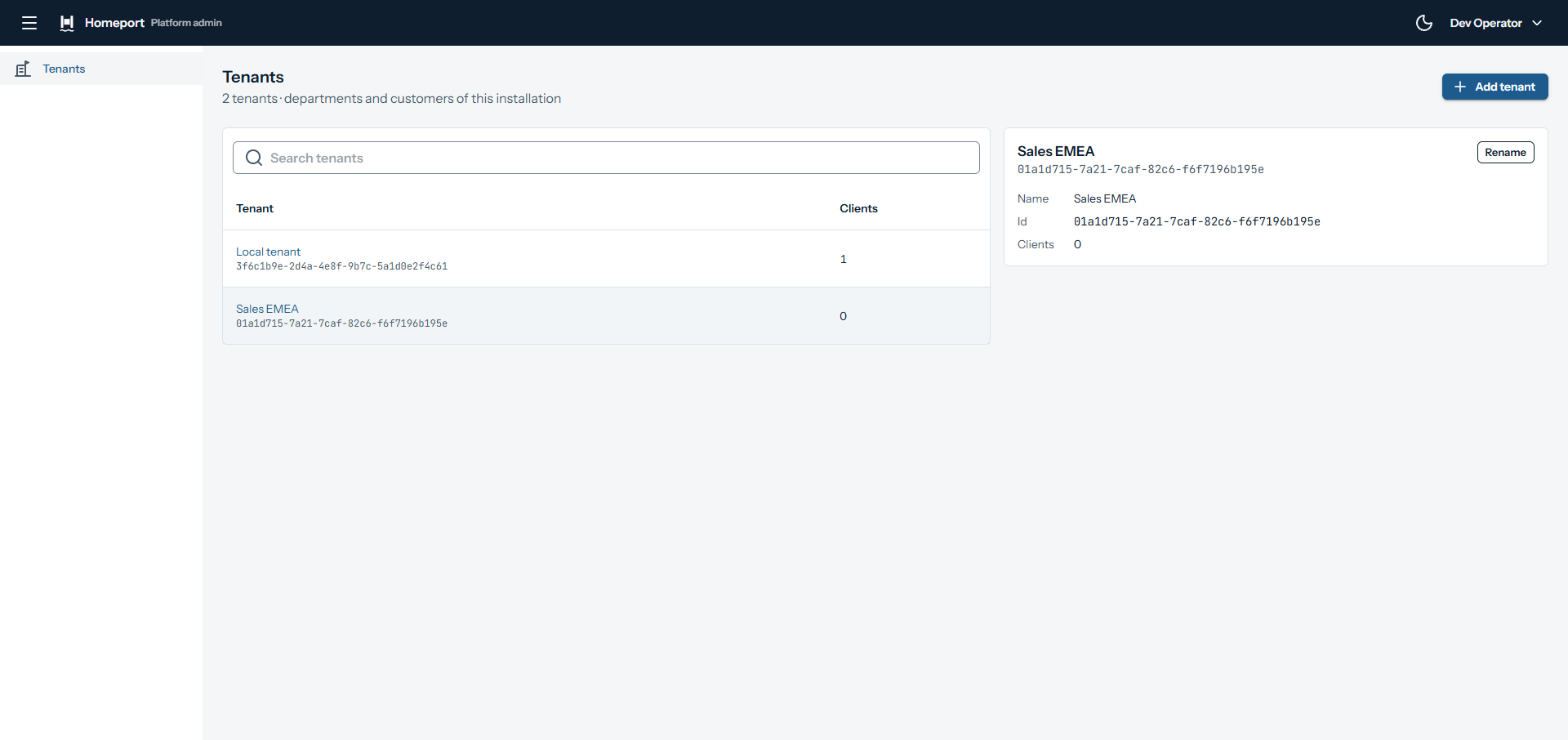
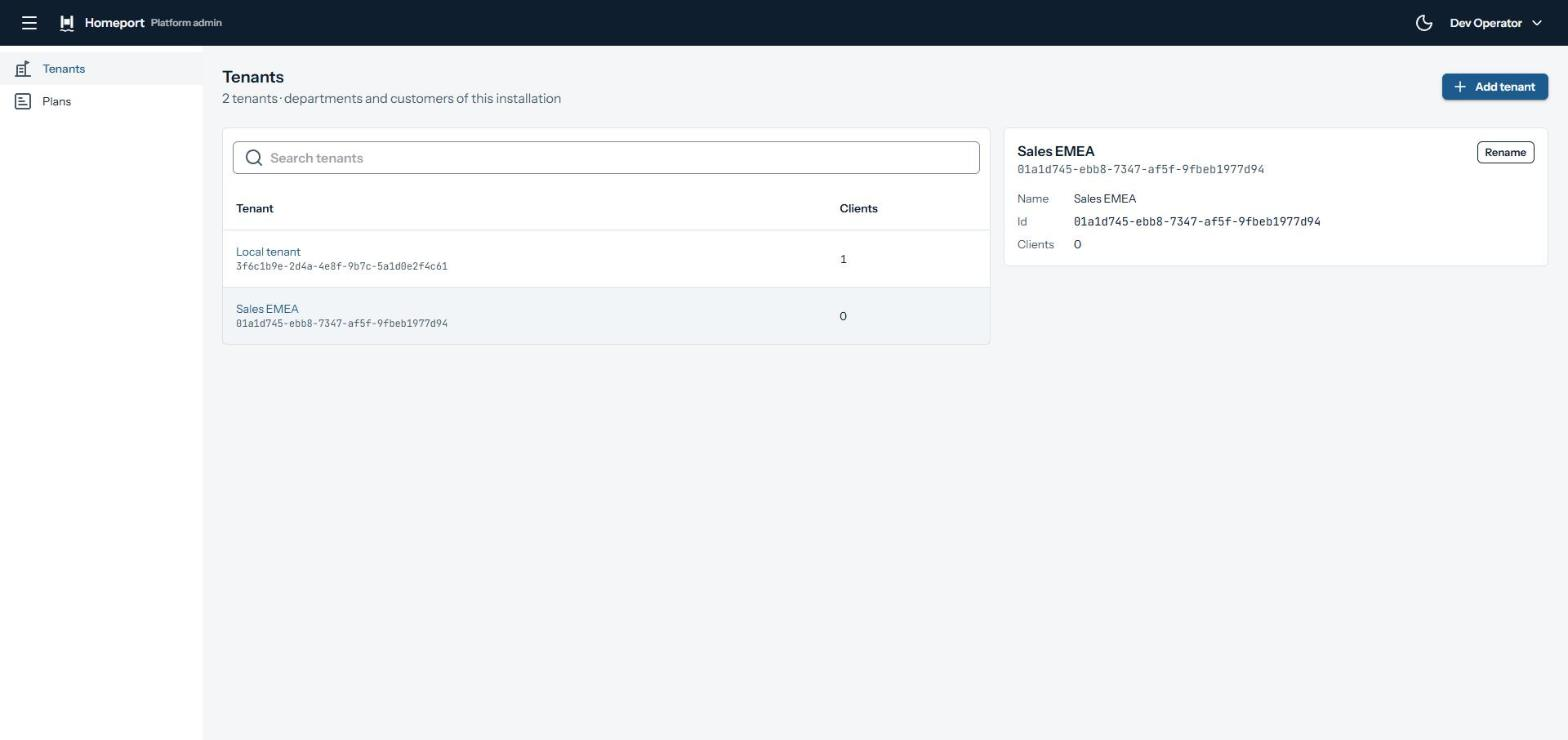
docs: document plans in the admin API and portal (#195)
- Document the plan endpoints and audit actions
- Add the plan-in-use problem page
- Add the Plans section with screenshots
- Retake the shell and tenant screenshots
- Update architecture, throttling and validation pages
- Add the changelog entry

diff --git a/docs/architecture/architecture.md b/docs/architecture/architecture.md
@@ -23,20 +23,20 @@ binding rules — the dependency direction, who may reference what — live in t
 | `Homeport.Platform.Gateway.Domain` | The rules for a quantity a module reports: one pair of the route's own meter and a positive integer; a plan's rate limit and what a request's draw from its bucket tells the caller: allowed or when to retry, the quota, window, remaining requests and seconds until full; the consolidated API documents: per module only the routes the gateway serves, each from the document of the instance that wins it, under public paths, with prefixed colliding component names and a bearer scheme | `Homeport.Shared.Contracts` |
 | `Homeport.Platform.Gateway.Application` | Decides whether a tenant's request passes its rate limit, on the token buckets it declares, and lets it pass while they cannot be reached | `Homeport.Platform.Gateway.Domain` |
 | `Homeport.Platform.Gateway.Infrastructure` | Loads and checks the signing key, builds the JWKS and issues service tokens, which an HTTP client attaches to its calls to a platform service, and module tokens, which are also the caller tokens of a forwarded platform request, and the operator's caller tokens of scope `admin` for an admin request; reads the route table from the registry; looks clients up at the control plane and keeps each answer for a configurable time; publishes usage events through Wolverine to RabbitMQ, retries a failed send and counts one it drops or a reported quantity it rejects; reads the OpenAPI documents of module instances; keeps every tenant's token bucket in Valkey and draws from it with a script that runs inside Valkey, counts a request that passes while Valkey cannot be reached and warns about it at most once a minute | `Homeport.Platform.Gateway.Application`, `Homeport.Shared.Authentication`, `Homeport.Shared.Internal` |
-| `Homeport.Platform.Gateway.Api` | The one entry point: polls the registry for the routes and forwards `/modules/{id}/{path}` with YARP on them, and `/platform/v1/usage` to metering on a configured route with a caller token and without metering it, to clients with a valid token of the operator's identity provider that the control plane knows and that grants the route's scope, serves the admin API under `/platform/v1/admin/...` on a port of its own only, for operator tokens with the configured admin claim, forwards it — so far the tenants, to the control plane — with a caller token of scope `admin` and neither throttles nor meters it, replaces the client's token with a module token, strips `X-Homeport-*` headers, applies forwarded headers only from trusted proxies, propagates `traceparent`, rejects a request over its tenant's rate limit with `429` and `Retry-After` before it is forwarded or metered and sets the RateLimit headers on every module response, tags a module request's span with tenant, client, module and meter and counts it in `homeport.gateway.requests`, publishes a usage event for every request it forwards with the quantity the module reported in `X-Homeport-Usage`, which it removes from the response, or the route's, holds every error response to Problem Details and serves the JWKS at `/.well-known/jwks.json`; when `Gateway:Docs:Enabled`, rebuilds the consolidated API docs whenever the routes change, the platform's from the documents of the platform services, read with a service token every 30 seconds, and serves them with Scalar at `/platform/docs` | `Homeport.Platform.Gateway.Infrastructure`, `Homeport.Shared.Client`, `Homeport.Shared.ServiceDefaults` |
+| `Homeport.Platform.Gateway.Api` | The one entry point: polls the registry for the routes and forwards `/modules/{id}/{path}` with YARP on them, and `/platform/v1/usage` to metering on a configured route with a caller token and without metering it, to clients with a valid token of the operator's identity provider that the control plane knows and that grants the route's scope, serves the admin API under `/platform/v1/admin/...` on a port of its own only, for operator tokens with the configured admin claim, forwards it — so far the tenants and plans, to the control plane — with a caller token of scope `admin` and neither throttles nor meters it, replaces the client's token with a module token, strips `X-Homeport-*` headers, applies forwarded headers only from trusted proxies, propagates `traceparent`, rejects a request over its tenant's rate limit with `429` and `Retry-After` before it is forwarded or metered and sets the RateLimit headers on every module response, tags a module request's span with tenant, client, module and meter and counts it in `homeport.gateway.requests`, publishes a usage event for every request it forwards with the quantity the module reported in `X-Homeport-Usage`, which it removes from the response, or the route's, holds every error response to Problem Details and serves the JWKS at `/.well-known/jwks.json`; when `Gateway:Docs:Enabled`, rebuilds the consolidated API docs whenever the routes change, the platform's from the documents of the platform services, read with a service token every 30 seconds, and serves them with Scalar at `/platform/docs` | `Homeport.Platform.Gateway.Infrastructure`, `Homeport.Shared.Client`, `Homeport.Shared.ServiceDefaults` |
 | `Homeport.Platform.Registry.Domain` | The rules of registration: the manifest against the module contract, the supported contract versions, SemVer precedence, merging the routes of the live instances and comparing registration keys | nothing |
 | `Homeport.Platform.Registry.Application` | Registering an instance, renewing it and building the routes, on a store of instances and a source of keys it declares | `Homeport.Platform.Registry.Domain` |
 | `Homeport.Platform.Registry.Infrastructure` | Keeps the instances in Valkey with a time to live and reads the registration keys from configuration | `Homeport.Platform.Registry.Application` |
 | `Homeport.Platform.Registry.Api` | Serves registration and heartbeat, authenticated by registration key, and the route table, authenticated by a gateway service token | `Homeport.Platform.Registry.Infrastructure`, `Homeport.Shared.Authentication`, `Homeport.Shared.Client`, `Homeport.Shared.Internal`, `Homeport.Shared.ServiceDefaults` |
-| `Homeport.Platform.ControlPlane.Domain` | The tenant with the rules of its name — required, at most 200 characters, unique among tenants compared case-sensitively — the plan, the client with the plan it is held to, the longest name and client id each allows, and the audit entry of an operator's change | `Homeport.Shared.Contracts` |
-| `Homeport.Platform.ControlPlane.Application` | Looking a client up with its plan, and listing, creating and renaming tenants on behalf of an operator, each change with its audit entry, on a lookup and a store it declares | `Homeport.Platform.ControlPlane.Domain` |
-| `Homeport.Platform.ControlPlane.Infrastructure` | Keeps tenants, plans, clients and audit entries in the schema `control_plane` with EF Core, mapped by entity configurations, looks a client up with its plan, stores a tenant's change and its audit entry in one transaction and catches a name taken meanwhile by the unique index, holds the migrations, takes `UPDATE` and `DELETE` on the audit table back from the app role, and brings the seeded tenant, plan and client in line with the configuration | `Homeport.Platform.ControlPlane.Application` |
-| `Homeport.Platform.ControlPlane.Api` | Serves `GET /clients/{clientId}` authenticated by a gateway service token, and `GET`, `POST` and `PUT` under `/v1/admin/tenants` for the operator's caller token of scope `admin` without a tenant, answering a broken name rule with a validation problem at `name`, and as `migrate` applies its migrations and seeds one tenant, plan and client | `Homeport.Platform.ControlPlane.Infrastructure`, `Homeport.Shared.Authentication`, `Homeport.Shared.Client`, `Homeport.Shared.Internal`, `Homeport.Shared.ServiceDefaults` |
+| `Homeport.Platform.ControlPlane.Domain` | The tenant with the rules of its name — required, at most 200 characters, unique among tenants compared case-sensitively — the plan with the rules of its name, alike, and of its limits — requests per second and burst, both positive — and that it is deleted only while no client uses it, the client with the plan it is held to, the longest name and client id each allows, and the audit entry of an operator's change | `Homeport.Shared.Contracts` |
+| `Homeport.Platform.ControlPlane.Application` | Looking a client up with its plan, listing, creating and renaming tenants, and listing, creating, changing and deleting plans on behalf of an operator, each change with its audit entry, on a lookup and a store it declares | `Homeport.Platform.ControlPlane.Domain` |
+| `Homeport.Platform.ControlPlane.Infrastructure` | Keeps tenants, plans, clients and audit entries in the schema `control_plane` with EF Core, mapped by entity configurations, looks a client up with its plan, stores a tenant's or a plan's change and its audit entry in one transaction and catches a name taken meanwhile by the unique index and a plan a client started using meanwhile by the foreign key, holds the migrations, takes `UPDATE` and `DELETE` on the audit table back from the app role, and brings the seeded tenant, plan and client in line with the configuration | `Homeport.Platform.ControlPlane.Application` |
+| `Homeport.Platform.ControlPlane.Api` | Serves `GET /clients/{clientId}` authenticated by a gateway service token, `GET`, `POST` and `PUT` under `/v1/admin/tenants` and `GET`, `POST`, `PUT` and `DELETE` under `/v1/admin/plans` for the operator's caller token of scope `admin` without a tenant, answering a broken rule with a validation problem at its field and deleting a plan in use with `plan-in-use`, and as `migrate` applies its migrations and seeds one tenant, plan and client | `Homeport.Platform.ControlPlane.Infrastructure`, `Homeport.Shared.Authentication`, `Homeport.Shared.Client`, `Homeport.Shared.Internal`, `Homeport.Shared.ServiceDefaults` |
 | `Homeport.Platform.Metering.Domain` | The usage event, its hourly and daily aggregates, the rule that buckets usage by the UTC hour and day, and the query of an export with its rules | `Homeport.Shared.Contracts` |
 | `Homeport.Platform.Metering.Application` | Recording an event once and adding it to its aggregates, and reading a tenant's aggregates for an export, on a store and a reader it declares | `Homeport.Platform.Metering.Domain` |
 | `Homeport.Platform.Metering.Infrastructure` | Keeps the events and aggregates in the schema `metering` with EF Core, filtered to one tenant by query filters and row-level security, records an event in one transaction that a duplicate leaves unchanged, reads the aggregates of one tenant, and holds the migrations | `Homeport.Platform.Metering.Application` |
 | `Homeport.Platform.Metering.Api` | Consumes `UsageRecorded` from RabbitMQ through Wolverine, acknowledging it only once recorded, counts consumed events in `homeport.metering.events`, tags the consumer's span with the event's tenant, client, module and meter, serves a tenant's usage at `GET /v1/usage` as JSON or CSV to caller tokens of the gateway that grant `usage.read`, its OpenAPI document to the gateway's tokens, and as `migrate` applies its migrations | `Homeport.Platform.Metering.Infrastructure`, `Homeport.Shared.Authentication`, `Homeport.Shared.Client`, `Homeport.Shared.Internal`, `Homeport.Shared.ServiceDefaults` |
-| `Homeport.Platform.Portal` | The admin portal, Blazor Server on MudBlazor with the design kit's theme, fonts and logos linked from `design/`: signs the operator in with OIDC, authorization code and PKCE, requires the configured claim on every page, refuses a sign-in over plain HTTP, applies forwarded headers only from trusted proxies, shows the shell with the operator's name and sign-out, lists, creates and renames tenants through the gateway's admin API with the operator's access token, which each circuit renews with the refresh token before it expires, shows the admin API's Problem Details with the errors at their form fields, and answers a browser with sign-in, access denied, not found and error pages that show the trace id | `Homeport.Shared.Client`, `Homeport.Shared.ServiceDefaults` |
+| `Homeport.Platform.Portal` | The admin portal, Blazor Server on MudBlazor with the design kit's theme, fonts and logos linked from `design/`: signs the operator in with OIDC, authorization code and PKCE, requires the configured claim on every page, refuses a sign-in over plain HTTP, applies forwarded headers only from trusted proxies, shows the shell with the operator's name and sign-out, lists, creates and renames tenants and lists, creates, changes and deletes plans through the gateway's admin API with the operator's access token, which each circuit renews with the refresh token before it expires, shows the admin API's Problem Details with the errors at their form fields, and answers a browser with sign-in, access denied, not found and error pages that show the trace id | `Homeport.Shared.Client`, `Homeport.Shared.ServiceDefaults` |
 | `Homeport.Modules.Echo.Domain` | The rule how much a batch counts: one per item, and at least one item | `Homeport.Shared.Contracts` |
 | `Homeport.Modules.Echo.Application` | Returning a batch with the quantity it counts as | `Homeport.Modules.Echo.Domain` |
 | `Homeport.Modules.Echo.Infrastructure` | Empty: Echo reaches nothing outside its process | `Homeport.Modules.Echo.Application` |
@@ -46,10 +46,10 @@ binding rules — the dependency direction, who may reference what — live in t
 | `Homeport.Modules.Echo.Api.Tests.Integration` | Runs Echo in memory behind a stand-in gateway's JWKS and asserts its manifest, health, echo, batch, request and caller endpoints with and without a module token and scope, and its OpenAPI document, including the descriptions of its `Homeport.Shared.Client` types | `Homeport.Modules.Echo.Api` |
 | `Homeport.Modules.Echo.Domain.Tests.Unit` | Asserts how much a batch counts and that an empty one is rejected | `Homeport.Modules.Echo.Domain` |
 | `Homeport.Modules.Echo.Application.Tests.Unit` | Asserts that a batch comes back in its order with its quantity, and that an empty one fails | `Homeport.Modules.Echo.Application` |
-| `Homeport.Platform.ControlPlane.Infrastructure.Tests.Integration` | Asserts that the schema's ER diagram names every table and column of the model, and, against a throwaway PostgreSQL migrated as the owner role, that a tenant is stored together with its audit entry, that neither is stored when another tenant took the name meanwhile, and that two names differing only in case are both stored; needs Docker | `Homeport.Platform.ControlPlane.Infrastructure` |
-| `Homeport.Platform.ControlPlane.Api.Tests.Integration` | Runs `migrate` and the control plane against a throwaway PostgreSQL prepared by the init script and asserts the client lookup with its token and error responses, the tenants of the admin API with their status codes, problems and audit entries, that only the operator's caller token reaches them, that `migrate` seeds exactly once and fails on an invalid seed, that the app role has no DDL rights, and that it may add and read audit entries but neither change nor delete them; needs Docker | `Homeport.Platform.ControlPlane.Api` |
-| `Homeport.Platform.ControlPlane.Domain.Tests.Unit` | Asserts the rules of a tenant's name: required, at most 200 characters, unique among tenants but case-sensitive, without surrounding whitespace, on creating and on renaming | `Homeport.Platform.ControlPlane.Domain` |
-| `Homeport.Platform.Gateway.Api.Tests.Integration` | Runs the gateway in memory against a stand-in module, registry, identity provider, control plane and metering and asserts which tokens, clients and scopes it accepts, the module token it forwards, what it forwards on which routes, how it polls the registry, the error responses it answers with, the JWKS it serves, the span attributes and request counts of a module request, that its metrics carry only bounded labels, the usage events it publishes with the quantity a module reports or the route's, the reports it rejects and removes, the `429`, `Retry-After` and RateLimit headers it answers with, that it neither meters a rejected request nor throttles one while Valkey is unreachable, that its errors read as `ProblemResponse` without loss, the consolidated API docs it serves, keeps and switches off, the platform's from metering's document read with a service token, that it forwards the usage export to metering with a caller token, throttles it and does not meter it, that it serves the admin API on the admin port only, answers it on the public port like an unknown path, refuses a token without the admin claim, forwards the operator's caller token and the tenant endpoints to the control plane, and that it does not start without a signing key or an identity provider | `Homeport.Platform.Gateway.Api` |
+| `Homeport.Platform.ControlPlane.Infrastructure.Tests.Integration` | Asserts that the schema's ER diagram names every table and column of the model, and, against a throwaway PostgreSQL migrated as the owner role, that a tenant is stored together with its audit entry, that neither is stored when another tenant took the name meanwhile, and that two names differing only in case are both stored, and alike for a plan, and that a plan a client uses is neither deleted nor its audit entry stored; needs Docker | `Homeport.Platform.ControlPlane.Infrastructure` |
+| `Homeport.Platform.ControlPlane.Api.Tests.Integration` | Runs `migrate` and the control plane against a throwaway PostgreSQL prepared by the init script and asserts the client lookup with its token and error responses, the tenants and plans of the admin API with their status codes, problems and audit entries, that only the operator's caller token reaches them, that `migrate` seeds exactly once and fails on an invalid seed, that the app role has no DDL rights, and that it may add and read audit entries but neither change nor delete them; needs Docker | `Homeport.Platform.ControlPlane.Api` |
+| `Homeport.Platform.ControlPlane.Domain.Tests.Unit` | Asserts the rules of a tenant's name: required, at most 200 characters, unique among tenants but case-sensitive, without surrounding whitespace, on creating and on renaming; the same of a plan's name, that its rate and burst are positive, and that a plan in use is not deleted | `Homeport.Platform.ControlPlane.Domain` |
+| `Homeport.Platform.Gateway.Api.Tests.Integration` | Runs the gateway in memory against a stand-in module, registry, identity provider, control plane and metering and asserts which tokens, clients and scopes it accepts, the module token it forwards, what it forwards on which routes, how it polls the registry, the error responses it answers with, the JWKS it serves, the span attributes and request counts of a module request, that its metrics carry only bounded labels, the usage events it publishes with the quantity a module reports or the route's, the reports it rejects and removes, the `429`, `Retry-After` and RateLimit headers it answers with, that it neither meters a rejected request nor throttles one while Valkey is unreachable, that its errors read as `ProblemResponse` without loss, the consolidated API docs it serves, keeps and switches off, the platform's from metering's document read with a service token, that it forwards the usage export to metering with a caller token, throttles it and does not meter it, that it serves the admin API on the admin port only, answers it on the public port like an unknown path, refuses a token without the admin claim, forwards the operator's caller token and the tenant and plan endpoints to the control plane, and that it does not start without a signing key or an identity provider | `Homeport.Platform.Gateway.Api` |
 | `Homeport.Platform.Gateway.Application.Tests.Unit` | Asserts that a request is decided on the bucket it drew from, and passes undecided while the buckets are unavailable | `Homeport.Platform.Gateway.Application` |
 | `Homeport.Platform.Gateway.Domain.Tests.Unit` | Asserts which reported quantities are accepted and why one is rejected, the limits a plan's rate limit takes and what a draw from its bucket tells the caller, and what a consolidated API document keeps, rewrites and leaves out | `Homeport.Platform.Gateway.Domain` |
 | `Homeport.Platform.Gateway.Infrastructure.Tests.Unit` | Asserts the checks on the signing and module token configuration, the service tokens and their renewal, the module tokens and the operator's caller tokens, the cached client lookup at the control plane, the retry delays of usage events, and that an outage of Valkey is warned about at most once per interval | `Homeport.Platform.Gateway.Infrastructure` |
@@ -59,7 +59,7 @@ binding rules — the dependency direction, who may reference what — live in t
 | `Homeport.Platform.Metering.Infrastructure.Tests.Integration` | Asserts recording and duplicates in a throwaway PostgreSQL prepared by the init script, which buckets an export reads, the cross-tenant leakage tests through EF Core and raw SQL as the app role and of the export, and that the schema's ER diagram names every table and column of the model; needs Docker | `Homeport.Platform.Metering.Infrastructure` |
 | `Homeport.Platform.Metering.Api.Tests.Integration` | Runs `migrate` and metering against a throwaway PostgreSQL and RabbitMQ and asserts that a published event is aggregated, that one delivered twice counts once, what `homeport.metering.events` counts, the attributes of the consumer's span, that its metrics carry only bounded labels, and the usage export as JSON and CSV with the tokens it accepts and refuses and the cross-tenant leakage test of two tenants, and its OpenAPI document of the export, served to a token only; needs Docker | `Homeport.Platform.Metering.Api` |
 | `Homeport.Platform.Portal.Tests.Integration` | Runs the portal in memory against an identity provider it never calls and asserts that it serves the design kit's files, sends an anonymous request to the sign-in page and its button to the provider with a code challenge, refuses a sign-in over plain HTTP without a trusted proxy, returns only to its own pages, sends a user without the claim to the access denied page, shows the trace id there and on the not found page, sets its cookies `Secure`, `HttpOnly` and `Lax`, and shows the operator's name in the shell | `Homeport.Platform.Portal` |
-| `Homeport.Platform.Portal.Tests.Unit` | Renders the tenants page with bUnit against a stand-in admin API and asserts the list, the empty state, a validation problem at the name field and the title, detail and trace id of any other problem; asserts that the client of the admin API sends the operator's token below `/platform`, reads Problem Details, describes an unreachable API and asks for a new sign-in on `401` or without a token, and that the operator's tokens are read from the cookie once per circuit and renewed with the refresh token shortly before they expire | `Homeport.Platform.Portal` |
+| `Homeport.Platform.Portal.Tests.Unit` | Renders the tenants and plans pages with bUnit against a stand-in admin API and asserts the list, the empty state, a validation problem at its field, the title, detail and trace id of any other problem, and the `plan-in-use` problem after a delete; asserts that the client of the admin API sends the operator's token below `/platform`, deletes a plan without a response body, reads Problem Details, describes an unreachable API and asks for a new sign-in on `401` or without a token, and that the operator's tokens are read from the cookie once per circuit and renewed with the refresh token shortly before they expire | `Homeport.Platform.Portal` |
 | `Homeport.Platform.Registry.Domain.Tests.Unit` | Asserts the manifest rules, SemVer precedence, how the routes of several instances merge and the key comparison | `Homeport.Platform.Registry.Domain` |
 | `Homeport.Platform.Registry.Application.Tests.Unit` | Asserts registering, renewing and building the routes on an in-memory store | `Homeport.Platform.Registry.Application` |
 | `Homeport.Platform.Registry.Infrastructure.Tests.Unit` | Asserts the checks on the configured registration keys | `Homeport.Platform.Registry.Infrastructure` |

diff --git a/docs/operators/admin-api.md b/docs/operators/admin-api.md
@@ -63,6 +63,11 @@ The request and response types are in `Homeport.Shared.Client`, namespace
 | `POST /platform/v1/admin/tenants` | control plane | `{ "name": "Sales" }` | `201` with the new tenant and its address in `Location` |
 | `GET /platform/v1/admin/tenants/{tenantId}` | control plane | — | `200` with the tenant, `404` for an unknown id |
 | `PUT /platform/v1/admin/tenants/{tenantId}` | control plane | `{ "name": "Sales EMEA" }` | `200` with the renamed tenant, `404` for an unknown id |
+| `GET /platform/v1/admin/plans` | control plane | — | `200` with every plan, ordered by name: id, name, requests per second, burst and number of clients |
+| `POST /platform/v1/admin/plans` | control plane | `{ "name": "Gold", "requestsPerSecond": 50, "burst": 100 }` | `201` with the new plan and its address in `Location` |
+| `GET /platform/v1/admin/plans/{planId}` | control plane | — | `200` with the plan, `404` for an unknown id |
+| `PUT /platform/v1/admin/plans/{planId}` | control plane | `{ "name": "Gold", "requestsPerSecond": 80, "burst": 160 }` | `200` with the changed plan, `404` for an unknown id |
+| `DELETE /platform/v1/admin/plans/{planId}` | control plane | — | `204`, `404` for an unknown id, `409` for a plan a client uses |
 
 A tenant's name is required, at most 200 characters, and unique among
 tenants. Surrounding whitespace is dropped. Names are compared
@@ -72,15 +77,31 @@ rule is answered with `400` and the problem type
 `errors.name`. A tenant is neither deleted nor suspended through the admin
 API.
 
+A plan's name follows the same rules among plans. Its requests per second
+and its burst are both at least 1; a burst below the rate is allowed. A
+value that breaks a rule is answered with `400` and `validation`, the
+message under `errors.name`, `errors.requestsPerSecond` or `errors.burst`.
+A plan is deleted only while no client uses it; otherwise the answer is
+`409` with the problem type
+[`plan-in-use`](../reference/problems/plan-in-use.md) and nothing changes.
+
+A changed plan takes effect at the gateway once it looks the client up
+again: the gateway keeps the plan it looked up with a client for
+`ControlPlane:ClientCacheLifetime`, one minute by default (see
+[throttling](throttling.md#plan-limits)). Until then a client keeps the
+limits it had.
+
 ## Audit
 
 Every change through the admin API writes an entry into the audit table of
 the service that owns the data, in the same transaction as the change: so
 far `control_plane.audit_entries`. An entry records when, the operator's
 subject and display name as the caller token named them, what was done
-(`tenant.created`, `tenant.renamed`), what it was done to
-(`tenants/<id>`) and a sentence for the reader. Renaming a tenant to the
-name it already has changes nothing and writes no entry.
+(`tenant.created`, `tenant.renamed`, `plan.created`, `plan.changed`,
+`plan.deleted`), what it was done to (`tenants/<id>`, `plans/<id>`) and a
+sentence for the reader with the values before and after. Renaming a tenant
+to the name it already has, or saving a plan unchanged, changes nothing and
+writes no entry; neither does a change the admin API refuses.
 
 The service's app role may only add entries and read them; it can neither
 change nor delete one. Homeport never deletes an entry. The entries hold

diff --git a/docs/operators/admin-portal.md b/docs/operators/admin-portal.md
@@ -7,7 +7,7 @@ a Blazor Server application, so your tokens stay on its server and never
 reach the browser.
 
 You sign in, see who you are signed in as, sign out, and manage the
-tenants. The pages for plans, clients, modules, usage and the audit log
+tenants and plans. The pages for clients, modules, usage and the audit log
 follow, each with its own entry in the navigation. Every page calls the
 [admin API](admin-api.md) at the gateway's admin port, as you.
 
@@ -54,6 +54,33 @@ placeholder rows; when it cannot be loaded, the problem and *Try again*.
 
 Each change is recorded in the audit log with your subject and display name
 (see [the admin API](admin-api.md#audit)).
+
+## Plans
+
+*Plans* lists every plan with its requests per second, its burst and the
+number of clients that use it. Selecting a plan shows its facts next to the
+list.
+
+![The plan list with two plans and the facts of the selected one](admin-portal-plans.png)
+
+*Add plan* asks for a name, the requests per second and the burst; *Change*
+edits the selected plan. The name must be unique among plans, compared
+case-sensitively, and both limits must be at least 1; a burst below the
+rate is allowed. When the admin API refuses a value, the dialog puts the
+reason at its field.
+
+*Delete* asks before it deletes the selected plan. A plan that a client
+uses is not deleted; the dialog then shows the problem
+[`plan-in-use`](../reference/problems/plan-in-use.md) with the trace id:
+
+![The delete dialog with the problem that the plan is in use](admin-portal-plans-in-use.png)
+
+A changed plan reaches the gateway once it looks a client up again, after
+the gateway's `ControlPlane:ClientCacheLifetime` — one minute by default.
+Until then the plan's clients keep their old limits. A deleted plan was used
+by no client, so nothing changes at the gateway.
+
+Each change is recorded in the audit log, as for tenants.
 
 ## Configuration
 

diff --git a/CHANGELOG.md b/CHANGELOG.md
@@ -9,6 +9,20 @@ and this project adheres to [Semantic Versioning](https://semver.org/spec/v2.0.0
 
 ### Added
 
+- The operator manages plans in the admin portal: a list with the rate
+  limit and the number of clients of each plan, dialogs to create and
+  change one, and delete with a confirmation. A plan's name is unique,
+  compared case-sensitively, and its requests per second and burst are
+  positive. A changed plan takes effect at the gateway within
+  `ControlPlane:ClientCacheLifetime`, one minute by default. See
+  [the admin portal](docs/operators/admin-portal.md#plans).
+
+- The admin API serves `GET`, `POST`, `PUT` and `DELETE` under
+  `/platform/v1/admin/plans`, each change with its audit entry. A plan that
+  a client uses is not deleted; the answer is `409` with the new problem
+  type [`plan-in-use`](docs/reference/problems/plan-in-use.md). See
+  [the admin API](docs/operators/admin-api.md#endpoints).
+
 - The operator manages tenants in the admin portal: a list with search, and
   dialogs to create and rename a tenant. A tenant's name is unique,
   compared case-sensitively. The pages show every problem of the admin API

diff --git a/docs/reference/problems/plan-in-use.md b/docs/reference/problems/plan-in-use.md
@@ -1,0 +1,23 @@
+# plan-in-use
+
+`https://homeport.data-worx.de/problems/plan-in-use` — status `409`.
+
+The control plane answered on the
+[admin endpoint](../../operators/admin-api.md#endpoints) that deletes a
+plan: at least one client uses the plan, so it was not deleted. Every
+client is held to exactly one plan, and a plan in use cannot be taken from
+it. Nothing was changed and no audit entry was written.
+
+```json
+{
+  "type": "https://homeport.data-worx.de/problems/plan-in-use",
+  "title": "The plan is in use.",
+  "status": 409,
+  "detail": "The plan 'Gold' is used by at least one client. Move its clients to another plan first.",
+  "traceId": "4bf92f3577b34da6a3ce929d0e0e4736"
+}
+```
+
+Retrying fails the same way while a client uses the plan. Move every client
+of the plan to another plan, or remove the clients, then delete the plan.
+The plan's number of clients is in its entry of `GET /platform/v1/admin/plans`.

diff --git a/docs/reference/problems/README.md b/docs/reference/problems/README.md
@@ -36,6 +36,7 @@ gateway replaces, unless a type below applies; see
 | `https://homeport.data-worx.de/problems/module-timeout` | 504 | [module-timeout](module-timeout.md) |
 | `https://homeport.data-worx.de/problems/module-unavailable` | 503 | [module-unavailable](module-unavailable.md) |
 | `https://homeport.data-worx.de/problems/module-unreachable` | 502 | [module-unreachable](module-unreachable.md) |
+| `https://homeport.data-worx.de/problems/plan-in-use` | 409 | [plan-in-use](plan-in-use.md) |
 | `https://homeport.data-worx.de/problems/rate-limited` | 429 | [rate-limited](rate-limited.md) |
 | `https://homeport.data-worx.de/problems/unauthorized` | 401 | [unauthorized](unauthorized.md) |
 | `https://homeport.data-worx.de/problems/unknown-client` | 403 | [unknown-client](unknown-client.md) |

diff --git a/docs/reference/problems/validation.md b/docs/reference/problems/validation.md
@@ -27,4 +27,5 @@ extension `errors` lists every failure, keyed by field path:
   same way.
 
 A rule of the domain answers the same way, such as a tenant's name that
-another tenant has: `"errors": { "name": ["A tenant named 'Sales' already exists."] }`.
+another tenant has: `"errors": { "name": ["A tenant named 'Sales' already exists."] }`,
+or a plan's burst of zero: `"errors": { "burst": ["The burst must be at least 1."] }`.
